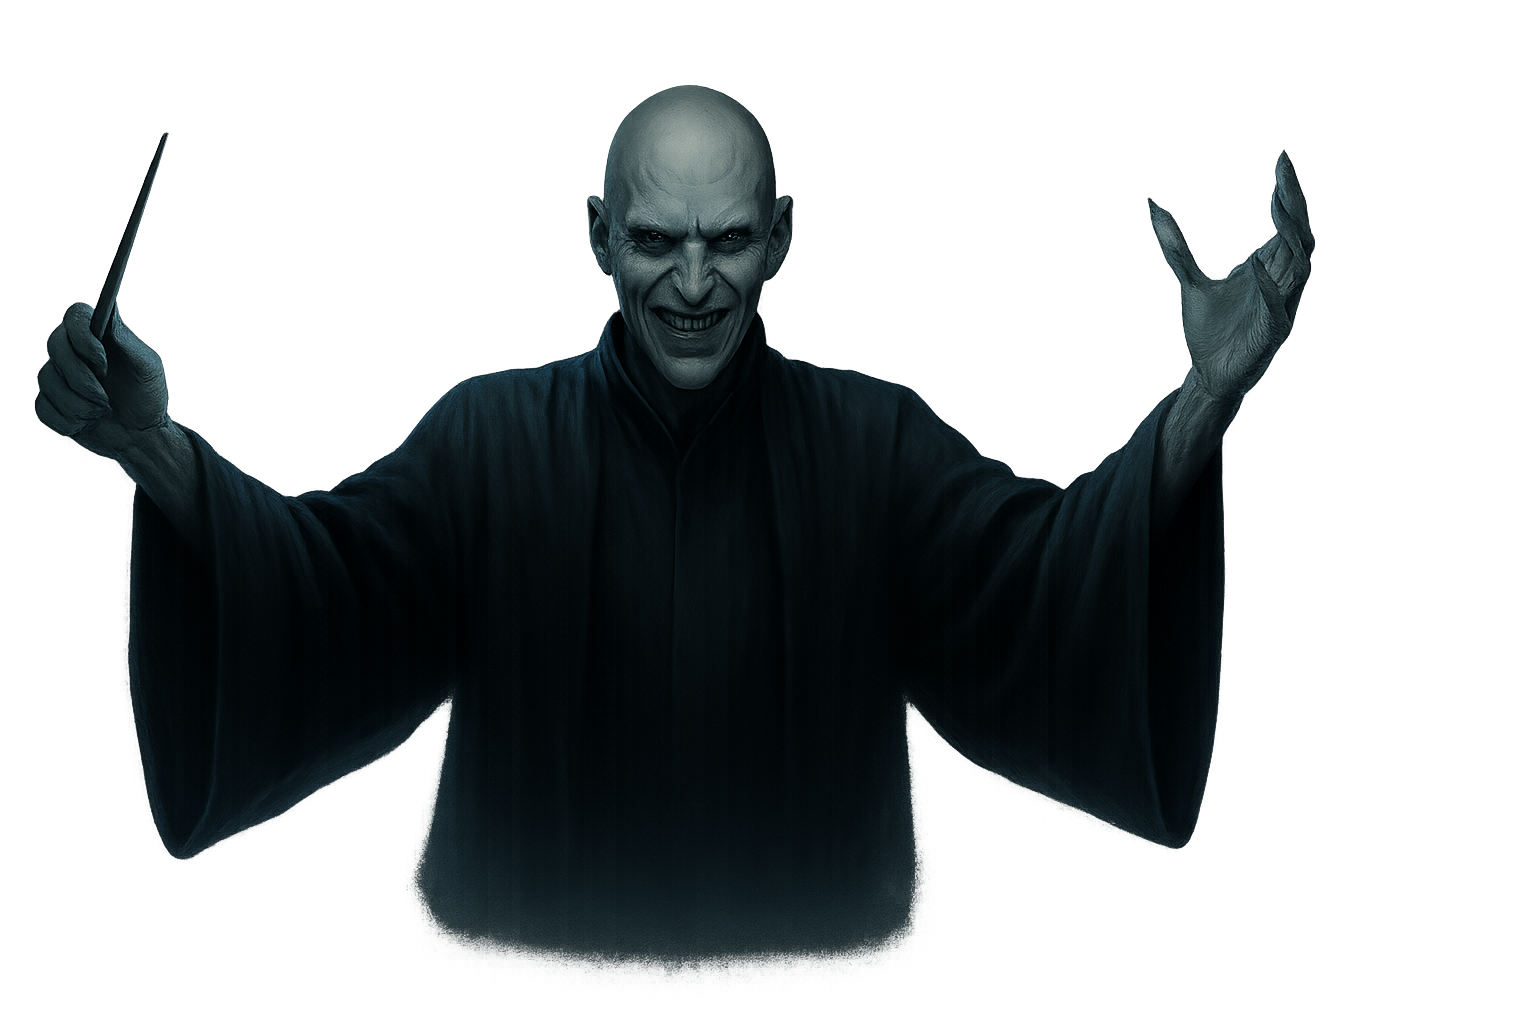
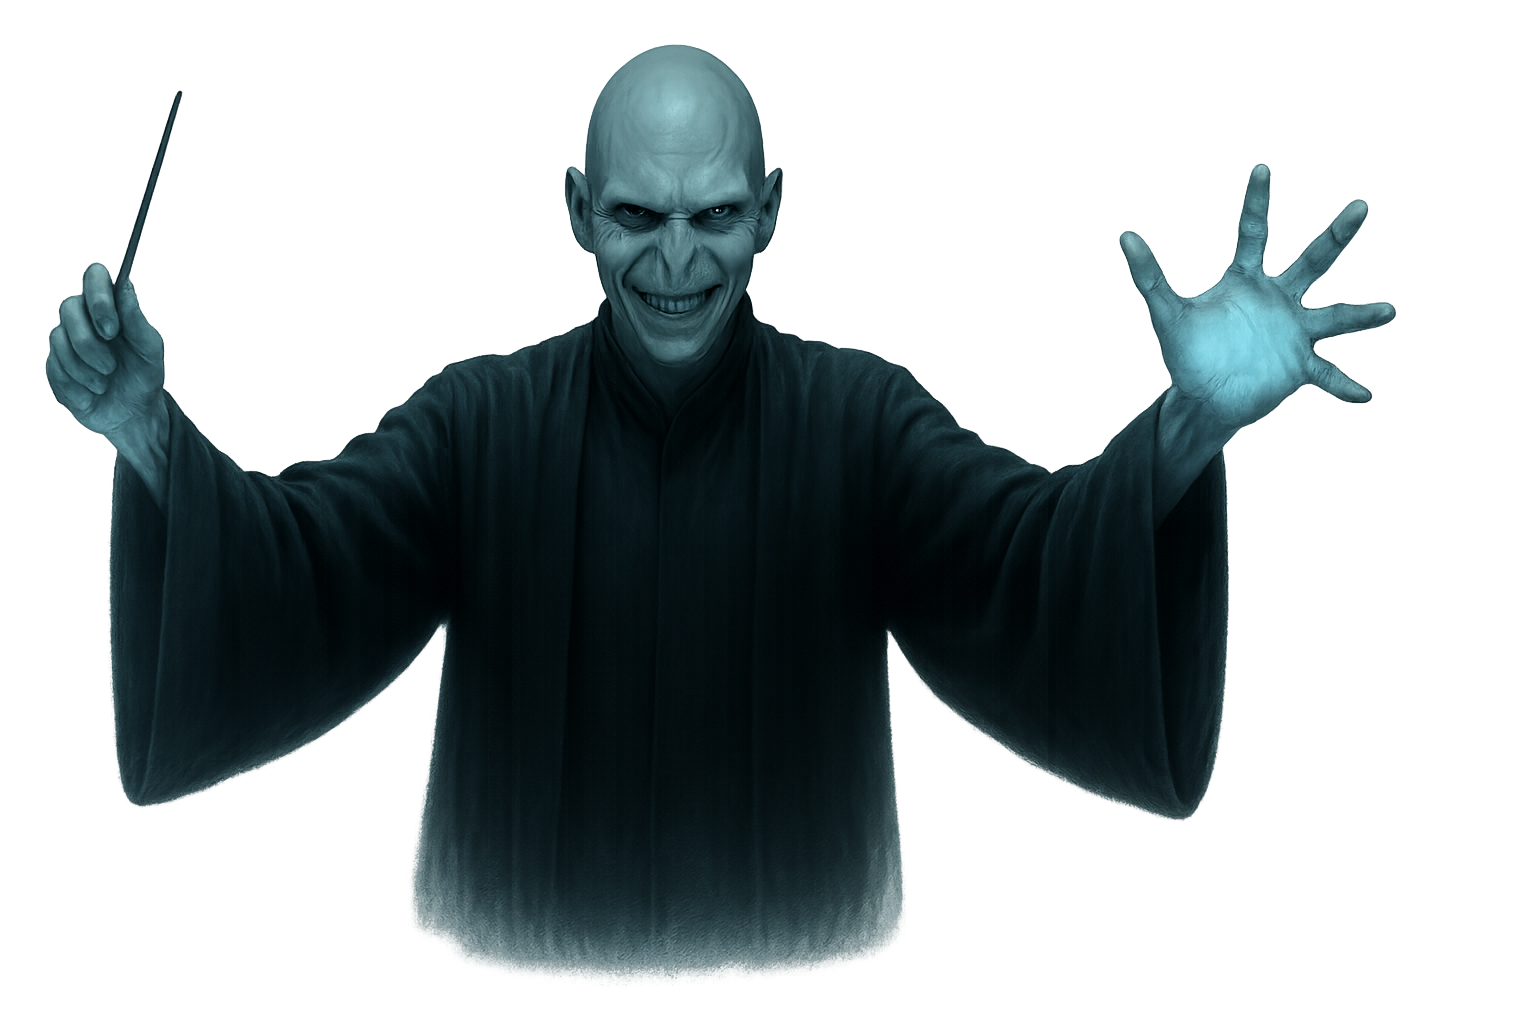
Прокинули название уровней, новую картинку поражения

Changed region(s): [[0.0, 0.0312, 0.8125, 0.9688], [0.7188, 0.1562, 0.9062, 0.5], [0.0938, 0.0938, 0.125, 0.1875]]

diff --git a/public/styles.css b/public/styles.css
@@ -1,4 +1,11 @@
-:root{--bg:#0b1022;--fg:#e2e8f0;--panel:#070e1b;--panel-b:#324256;--road:#1b2637}
+:root{
+  --bg:#0b1022; --fg:#e2e8f0; --panel:#070e1b; --panel-b:#324256; --road:#1b2637;
+
+  /* Цвета свечения (R,G,B) */
+  --glow-win: 255,233,138;   /* тёплое золото для победы */
+  --glow-lose: 200,220,255;  /* холодный сине-голубой для поражения */
+}
+
 *{box-sizing:border-box}
 html,body{height:100%;margin:0;background:var(--bg);color:var(--fg);font:14px/1.4 system-ui,-apple-system,'Segoe UI',Roboto,Arial}
 .wrap{position:relative;display:grid;place-items:center;height:100%;gap:14px;padding:16px}
@@ -26,21 +33,50 @@ canvas{background:var(--panel);border:1px solid var(--panel-b);border-radius:18p
 .panel.win .title{color:#ffe98a;text-shadow:0 0 18px rgba(255,233,138,.6),0 0 6px rgba(255,233,138,.9)}
 .panel.win{overflow:visible}
 .panel.win .art-wrap{position:absolute;top:-280px;left:50%;transform:translateX(-50%);width:78%;max-width:460px;z-index:20;pointer-events:none}
-.panel.win .art{display:block;width:100%;height:auto;filter:drop-shadow(0 12px 30px rgba(255,153,0,.25)) drop-shadow(0 0 16px rgba(255,190,60,.18));
-                animation:loseArtIn .42s ease-out forwards, lightningPulse 2.6s ease-in-out .42s infinite alternate}
+.panel.win .art{
+  --glow: var(--glow-win);
+  display:block;width:100%;height:auto;
+  filter:
+    drop-shadow(0 12px 30px rgba(var(--glow), .25))
+    drop-shadow(0 0 16px rgba(var(--glow), .18));
+  animation: loseArtIn .42s ease-out forwards,
+             lightningPulse 2.6s ease-in-out .42s infinite alternate;
+}
 .panel.win .title{margin-top:60px}
 
 /* Поражение */
 .panel.lose{background:linear-gradient(135deg,#1a0d16 0%,#280e1e 45%,#0d142a 100%)}
 .panel.lose .title{color:#ff9db8;text-shadow:0 0 18px rgba(255,80,120,.5),0 0 6px rgba(255,120,160,.9)}
 .panel.lose{overflow:visible}
-.panel.lose .art-wrap{position:absolute;top:-270px;left:50%;transform:translateX(-50%);width:78%;max-width:460px;z-index:20;pointer-events:none}
-.panel.lose .art{display:block;width:100%;height:auto;filter:drop-shadow(0 12px 30px rgba(255,153,0,.25)) drop-shadow(0 0 16px rgba(255,190,60,.18));
-                animation:loseArtIn .42s ease-out forwards, lightningPulse 2.6s ease-in-out .42s infinite alternate}
+.panel.lose .art-wrap{position:absolute;top:-270px;left:55%;transform:translateX(-50%);width:78%;max-width:460px;z-index:20;pointer-events:none}
+.panel.lose .art{
+  --glow: var(--glow-lose);
+  display:block;width:100%;height:auto;
+  filter:
+    drop-shadow(0 12px 30px rgba(var(--glow), .25))
+    drop-shadow(0 0 16px rgba(var(--glow), .18));
+  animation: loseArtIn .42s ease-out forwards,
+             lightningPulse 2.6s ease-in-out .42s infinite alternate;
+}
 .panel.lose .title{margin-top:60px}
 
 .panel .title,.panel .score,.panel .actions{position:relative;z-index:30}
-@keyframes loseArtIn{from{opacity:0;transform:translateY(-12px) scale(.98)}to{opacity:1;transform:translateY(0) scale(1)}}
-@keyframes lightningPulse{0%{filter:drop-shadow(0 8px 20px rgba(255,160,0,.18)) drop-shadow(0 0 10px rgba(255,190,80,.15))}
-100%{filter:drop-shadow(0 14px 40px rgba(255,160,0,.35)) drop-shadow(0 0 22px rgba(255,210,120,.28))}}
 
+/* Анимации */
+@keyframes loseArtIn{
+  from{opacity:0;transform:translateY(-12px) scale(.98)}
+  to{opacity:1;transform:translateY(0) scale(1)}
+}
+
+@keyframes lightningPulse{
+  0%{
+    filter:
+      drop-shadow(0 8px 20px rgba(var(--glow), .18))
+      drop-shadow(0 0 10px rgba(var(--glow), .15));
+  }
+  100%{
+    filter:
+      drop-shadow(0 14px 40px rgba(var(--glow), .35))
+      drop-shadow(0 0 22px rgba(var(--glow), .28));
+  }
+}

diff --git a/public/src/main.js b/public/src/main.js
@@ -11,7 +11,8 @@ const ctx = canvas.getContext('2d');
 const W = canvas.width, H = canvas.height;
 
 const scoreEl  = document.getElementById('score');
-const levelEl  = document.getElementById('level');
+const levelEl  = document.getElementById('level');       // № уровня
+const levelNameEl = document.getElementById('levelName'); // ИМЯ уровня
 const resetBtn = document.getElementById('reset');
 
 const loseVeil = document.getElementById('loseVeil');
@@ -60,7 +61,7 @@ function showLose(){
 
   const imgLose = document.getElementById('loseArt');
   if (imgLose && !imgLose.dataset.bound){
-    imgLose.src = PRELOAD.lose.src;   // 1 раз, дальше кэш браузера
+    imgLose.src = PRELOAD.lose.src;
     imgLose.dataset.bound = '1';
   }
 
@@ -73,7 +74,7 @@ function showWin(){
 
   const imgWin = document.getElementById('winArt');
   if (imgWin && !imgWin.dataset.bound){
-    imgWin.src = PRELOAD.win.src;     // 1 раз, дальше кэш
+    imgWin.src = PRELOAD.win.src;
     imgWin.dataset.bound = '1';
   }
 
@@ -84,15 +85,13 @@ function showWin(){
   winVeil.classList.add('show');
 }
 
-
 function goNextLevel(e){
   if (e){ e.preventDefault(); e.stopPropagation(); }
-  hidePanels();                              
-  setLevel(levels, state.levelIndex + 1, levelEl);
+  hidePanels();
+  setLevel(levels, state.levelIndex + 1, levelEl, levelNameEl); // <— ПЕРЕДАЁМ оба
   resetEngine(scoreEl);
   running = true;
 }
-
 
 let running = true;
 
@@ -106,6 +105,6 @@ function loop(){
 }
 
 // boot
-setLevel(levels, state.levelIndex, levelEl);
+setLevel(levels, state.levelIndex, levelEl, levelNameEl); // <— ПЕРЕДАЁМ оба
 resetEngine(scoreEl);
 loop();

diff --git a/public/src/levels.js b/public/src/levels.js
@@ -10,6 +10,7 @@ export const state = {
   totalLen: 0,
   margin: 8,
   levelIndex: 0,
+  levelName: '',            // <— имя активного уровня
 };
 
 export function roadHalf(){ return state.roadWidth / 2; }
@@ -92,12 +93,19 @@ export function prepareLengths(){
   }
 }
 
-export function setLevel(levels, i, levelEl){
+// ВАЖНО: принимаем indexEl и nameEl — и пишем туда номер+имя
+export function setLevel(levels, i, indexEl, nameEl){
   state.levelIndex = ((i % levels.length)+levels.length)%levels.length;
   const L = levels[state.levelIndex];
+
   state.path = L.path.map(p=>({x:p.x, y:p.y}));
   state.roadWidth = L.width || 130;
+  state.levelName = L.name || '';
   prepareLengths();
-  if (levelEl) levelEl.textContent = String(state.levelIndex+1);
+
+  if (indexEl) indexEl.textContent = String(state.levelIndex+1);
+  if (nameEl)  nameEl.textContent  = state.levelName;
+
   localStorage.setItem('fr_levelIndex', String(state.levelIndex));
+  localStorage.setItem('fr_levelName', state.levelName);
 }

diff --git a/public/index.html b/public/index.html
@@ -12,7 +12,9 @@
 
     <div class="hud">
       <span class="badge">Счёт: <span id="score">0</span> м</span>
-      <span class="badge">Уровень: <span id="level">1</span></span>
+      <span class="badge">Уровень: <span id="levelNo">1</span>
+    — <span id="levelName"></span>
+      </span>
       <button class="btn" id="reset">Сброс</button>
     </div>
 
